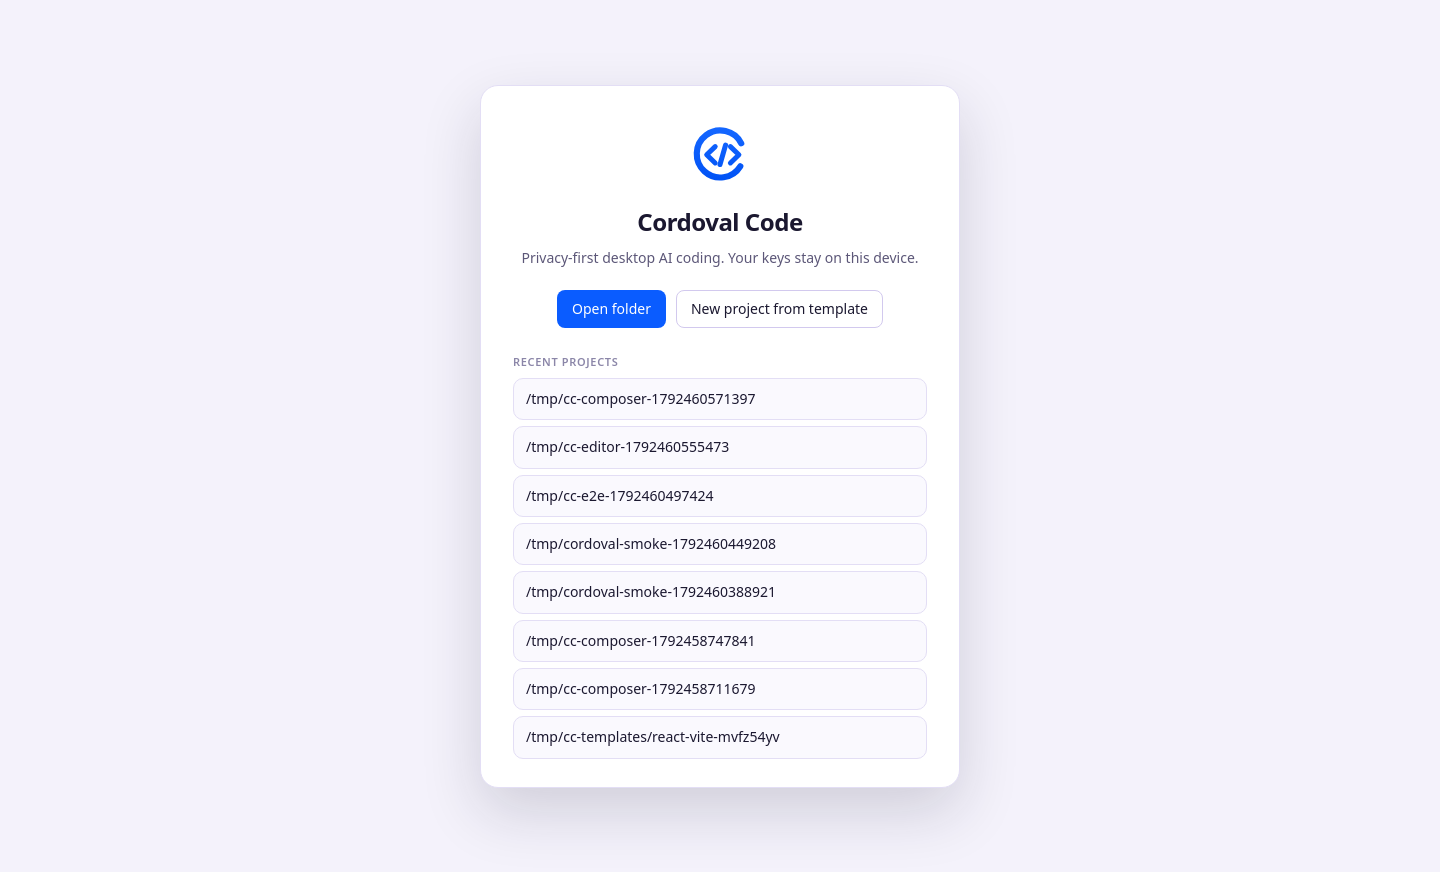
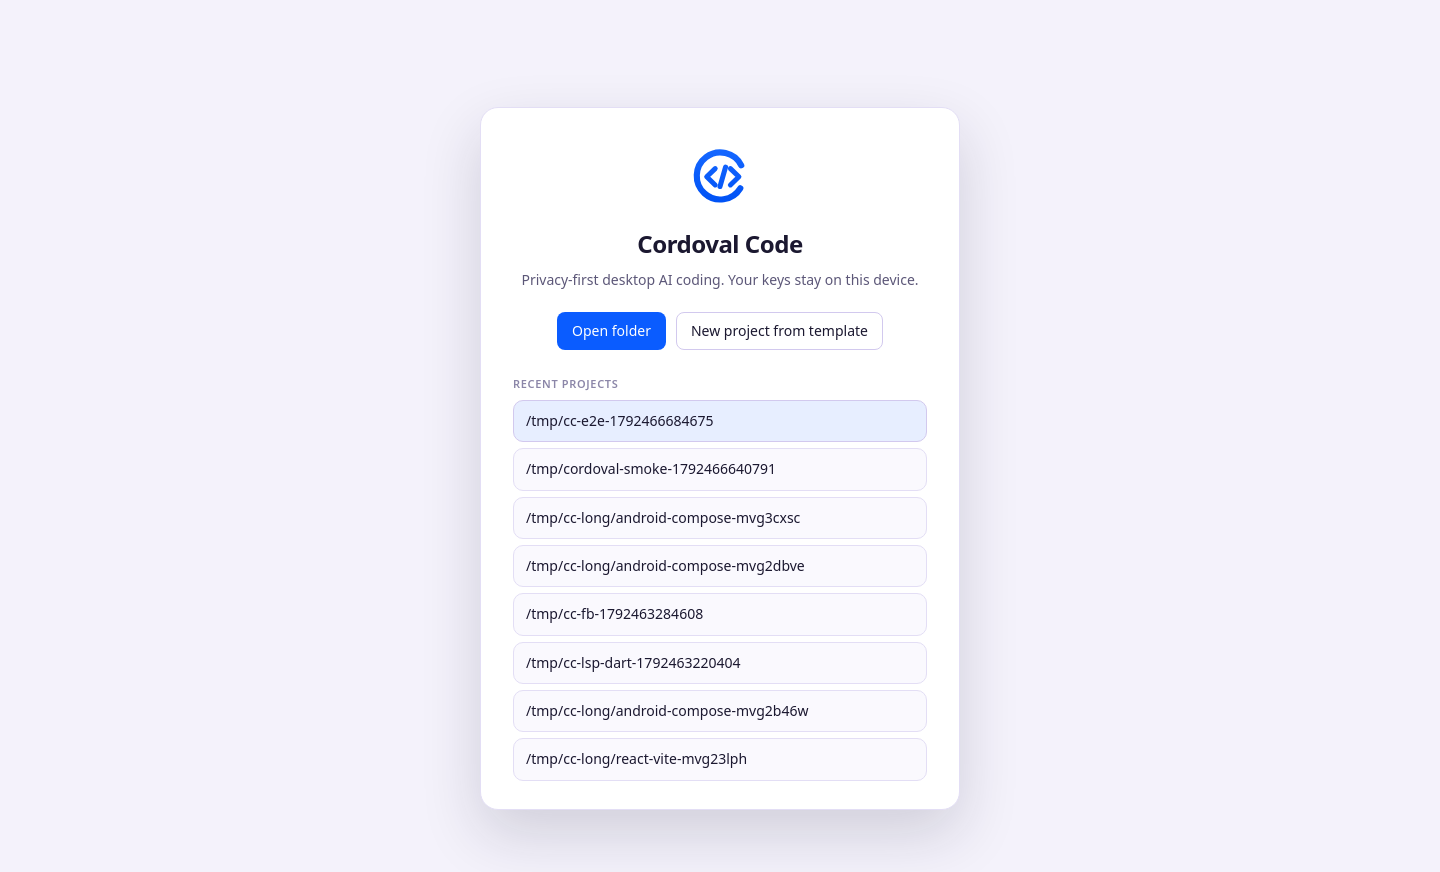
Welcome screen: Settings and keys button (settings were unreachable before opening a project)

Changed region(s): [[0.3125, 0.1548, 0.6875, 0.9289]]

diff --git a/src/renderer/index.html b/src/renderer/index.html
@@ -165,6 +165,7 @@
       <div class="welcome-actions">
         <button type="button" class="btn btn-primary" id="btn-welcome-open">Open folder</button>
         <button type="button" class="btn btn-secondary" id="btn-welcome-template">New project from template</button>
+        <button type="button" class="btn btn-secondary" id="btn-welcome-settings">Settings and keys</button>
       </div>
       <div class="welcome-recent">
         <div class="welcome-recent-label">Recent projects</div>

diff --git a/src/renderer/app.js b/src/renderer/app.js
@@ -2496,6 +2496,7 @@
         toast(errorMessage(err), 'error');
       });
     });
+    $('btn-welcome-settings').addEventListener('click', function () { openSettings(); });
     $('btn-welcome-template').addEventListener('click', function () {
       openTemplates().catch(function (err) {
         toast(errorMessage(err), 'error');
